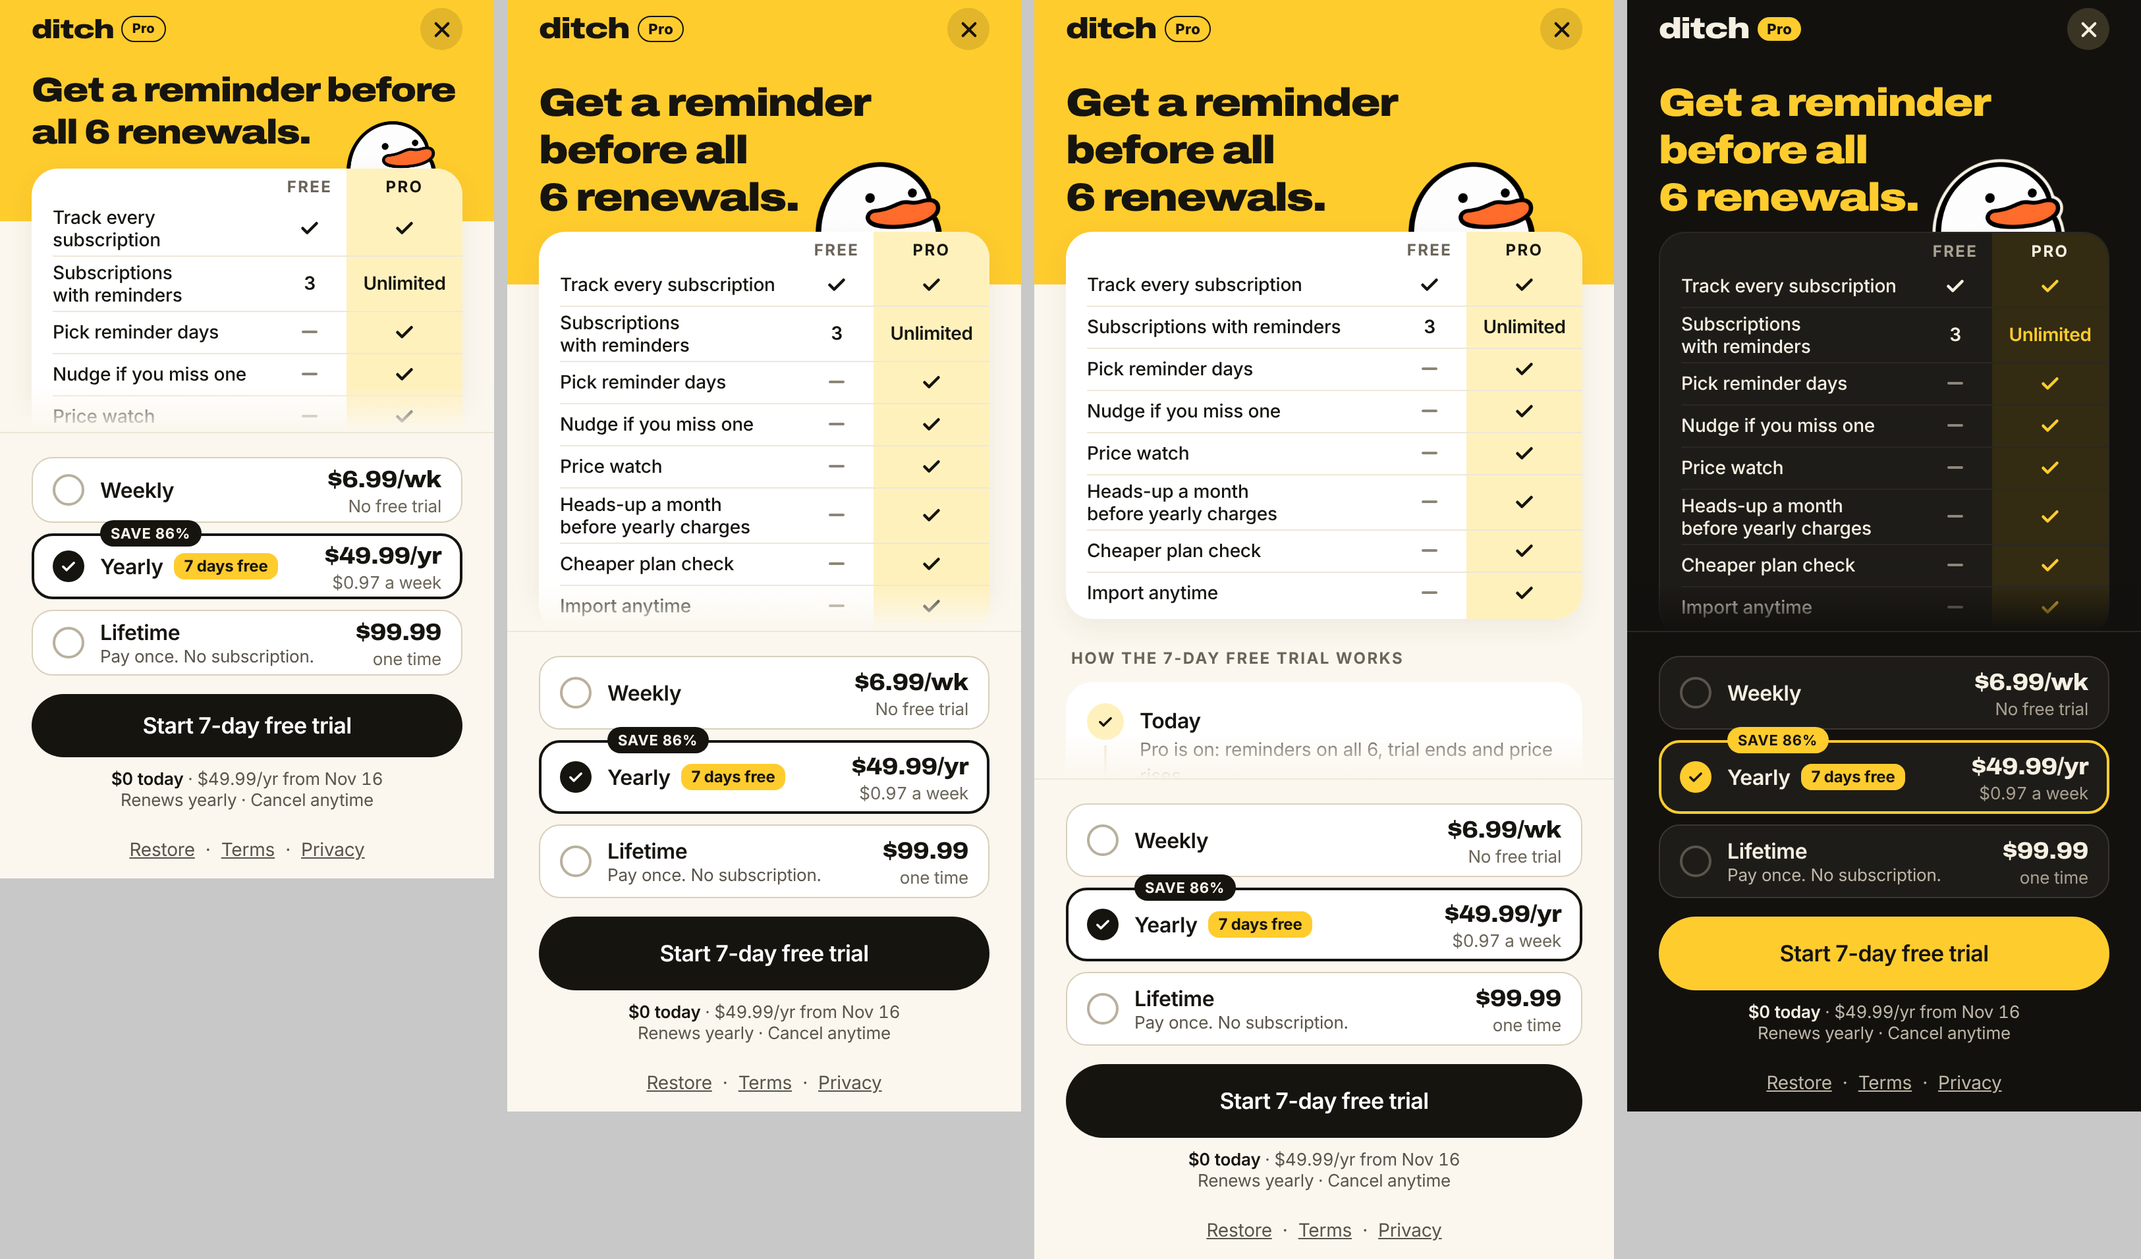
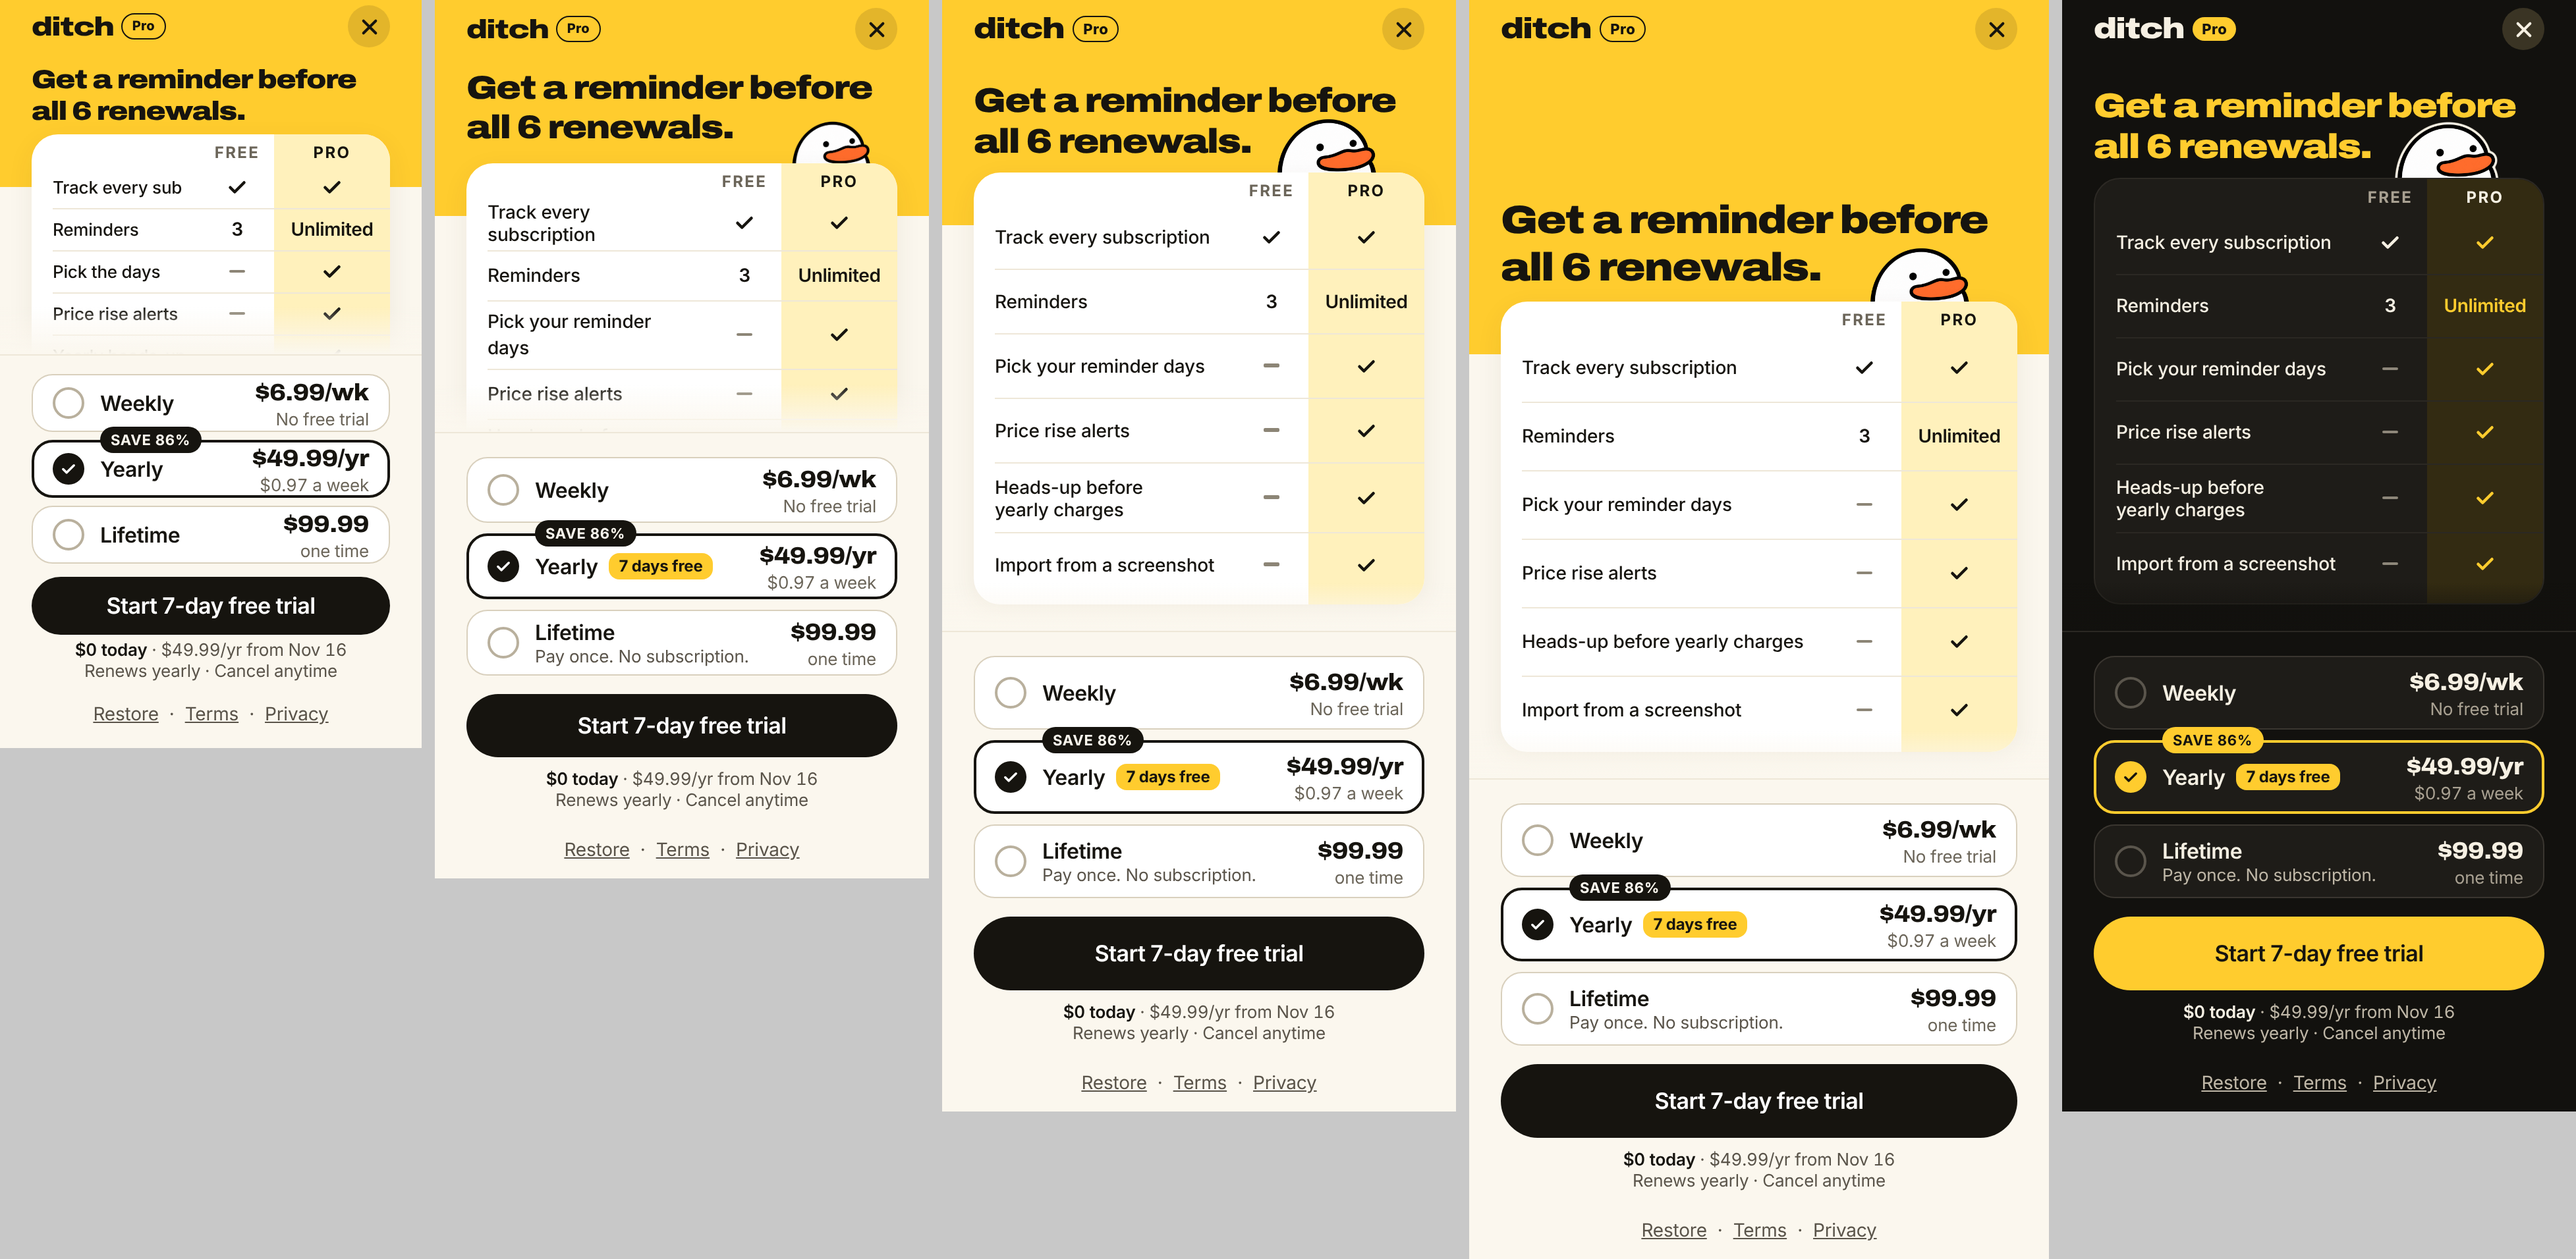
Paywall polish: 6 short table rows, 2-line title sized to the width, no trial timeline; rows open up on tall phones instead of a gap; smaller duck. Onboarding motion: welcome timing + checklist
Claude-Session: https://claude.ai/code/session_01Q8GFjWCZXwnj2nAcxjTkxh

diff --git a/src/app/paywall.tsx b/src/app/paywall.tsx
@@ -29,7 +29,7 @@ import { OnbRoot } from '@/onboarding/Parts';
 import { PURCHASES_LIVE, billedLabel, planById, purchase, restorePurchases, type PlanId } from '@/services/purchases';
 import { onboardingToday, useOnboarding, usePickedList } from '@/state/onboarding';
 import { useApp } from '@/state/app';
-import { Bell, BottomFade, Button, Card, CardIcon, Check, Close, Duck, F, IconButton, PlanCard, ProLockup, Txt, brand, haptic, useFrame, useIsDark, usePalette } from '@/ui/sunflower';
+import { BottomFade, Button, Card, Check, Close, Duck, F, IconButton, PlanCard, ProLockup, Txt, brand, haptic, useFrame, useIsDark, usePalette } from '@/ui/sunflower';
 
 const NB = ' ';
 
@@ -53,31 +53,36 @@ type Row = { label: string; free: Cell; pro: Cell };
 
 // DECISIONS #26, #27, #30. Only Pro features that work in this build (App Review 2.1, 3.1.2):
 // a row appears when its feature does. The Lock Screen widget is v1.1 (#27).
+// Owner, Nov 18 ("polish it, less cluttered"): the 6 strongest rows, each short enough for one line.
+// Only features that work in this build (App Review 2.1, 3.1.2).
 const ROWS: Row[] = [
   // From the approved deck (#26): says up front that tracking is free and unlimited.
   { label: 'Track every subscription', free: 'yes', pro: 'yes' },
-  { label: 'Subscriptions with reminders', free: '3', pro: 'Unlimited' },
+  { label: 'Reminders', free: '3', pro: 'Unlimited' },
   // Free can change the time of day; Pro picks the days before (and up to 3 of them).
-  { label: 'Pick reminder days', free: 'no', pro: 'yes' },
-  { label: 'Nudge if you miss one', free: 'no', pro: 'yes' },
-  // Owner, Nov 16: price watch works in this build (DECISIONS #60), so it gets a row.
-  { label: 'Price watch', free: 'no', pro: 'yes' },
-  // Built Nov 16 (DECISIONS #60): Pro only.
-  { label: 'Heads-up a month before yearly charges', free: 'no', pro: 'yes' },
-  { label: 'Cheaper plan check', free: 'no', pro: 'yes' },
+  { label: 'Pick your reminder days', free: 'no', pro: 'yes' },
+  // Price watch (DECISIONS #60).
+  { label: 'Price rise alerts', free: 'no', pro: 'yes' },
+  // The 30-day warning before yearly charges (DECISIONS #60).
+  { label: 'Heads-up before yearly charges', free: 'no', pro: 'yes' },
   ...(WIDGET_READY ? [{ label: `Lock${NB}Screen widget`, free: 'no', pro: 'yes' }] : []),
   // The first import (onboarding) is free, so "anytime" keeps this row true (DECISIONS #34).
-  ...(showImport() ? [{ label: 'Import anytime', free: 'no', pro: 'yes' }] : []),
+  ...(showImport() ? [{ label: 'Import from a screenshot', free: 'no', pro: 'yes' }] : []),
 ];
 
 /** 320pt wide: the same rows in fewer words, so each stays on one line. */
-const SHORT: Record<string, string> = { 'Track every subscription': 'Track every sub', 'Subscriptions with reminders': 'Reminders on', 'Pick reminder days': 'Pick the days' };
+const SHORT: Record<string, string> = {
+  'Track every subscription': 'Track every sub',
+  'Pick your reminder days': 'Pick the days',
+  'Heads-up before yearly charges': 'Yearly heads-up',
+  'Import from a screenshot': 'Screenshot import',
+};
 
 const CELL_TEXT = { fontFamily: F.semi, fontSize: 14, lineHeight: 20 } as const;
 const LABEL_TEXT = { fontFamily: F.medium, fontSize: 14, letterSpacing: -0.1 } as const;
 
 /** Free vs Pro. Fixed columns: Free 56pt; Pro fits "Unlimited" with 12pt either side. */
-function Compare({ rows, width, overlap, tiny }: { rows: Row[]; width: number; overlap: number; tiny?: boolean }) {
+function Compare({ rows, width, overlap, tiny, grow = 0 }: { rows: Row[]; width: number; overlap: number; tiny?: boolean; grow?: number }) {
   const p = usePalette();
   const dark = p.dark;
   const ink = dark ? '#F6F0E3' : brand.ink;
@@ -139,7 +144,7 @@ function Compare({ rows, width, overlap, tiny }: { rows: Row[]; width: number; o
             key={r.label}
             accessible
             accessibilityLabel={`${r.label}: Free, ${spoken(r.free)}. Pro, ${spoken(r.pro)}.`}
-            style={{ flexDirection: 'row', alignItems: 'center', minHeight: two ? 42 : tiny ? 28 : 32 }}
+            style={{ flexDirection: 'row', alignItems: 'center', minHeight: (two ? 42 : tiny ? 30 : 38) + grow }}
           >
             {i ? <View style={{ position: 'absolute', top: 0, left: 16, right: 0, height: 1, backgroundColor: p.hair }} /> : null}
             <Txt
@@ -155,48 +160,8 @@ function Compare({ rows, width, overlap, tiny }: { rows: Row[]; width: number; o
           </View>
         );
       })}
-      <View style={{ height: 4 }} />
+      <View style={{ height: 6 }} />
     </Card>
-  );
-}
-
-/** "How the free week works": the real dates, like Quizlet, Mobills and Smart Receipts. */
-function TrialSteps({ n, charge, price, days }: { n: number; charge: string; price: string; days: number }) {
-  const p = usePalette();
-  const ink = p.dark ? brand.sunflower : brand.ink;
-  const steps = [
-    {
-      icon: <Check color={ink} size={14} />,
-      title: 'Today',
-      line: n >= 2 ? `Pro is on: reminders on all ${n}, trial ends and price rises.` : 'Pro is on: reminders on everything, trial ends and price rises.',
-    },
-    { icon: <Bell color={ink} size={14} />, title: shortDate(addDays(charge, -3)), line: 'We remind you your trial is ending.' },
-    { icon: <CardIcon color={ink} size={14} />, title: shortDate(charge), line: `${price} for the year. Cancel before and pay${NB}nothing.` },
-  ];
-  return (
-    <View style={{ marginTop: 22 }}>
-      <Txt v="eyebrow" tone="mute" style={{ marginLeft: 4, marginBottom: 10 }}>
-        {`How the ${days}-day free trial works`}
-      </Txt>
-      <View style={{ backgroundColor: p.card, borderRadius: 20, paddingHorizontal: 16, paddingVertical: 6, borderWidth: p.dark ? 1 : 0, borderColor: p.cardBorder }}>
-        {steps.map((x, i) => (
-          <View key={x.title} accessible accessibilityLabel={`${x.title}: ${x.line}`} style={{ flexDirection: 'row', gap: 12, paddingVertical: 10 }}>
-            <View style={{ alignItems: 'center' }}>
-              <View style={{ width: 28, height: 28, borderRadius: 14, backgroundColor: p.dark ? '#332B12' : '#FFF1BC', alignItems: 'center', justifyContent: 'center' }}>{x.icon}</View>
-              {i < steps.length - 1 ? <View style={{ width: 2, flex: 1, minHeight: 10, marginTop: 4, marginBottom: -14, backgroundColor: p.hair }} /> : null}
-            </View>
-            <View style={{ flex: 1, paddingTop: 3 }}>
-              <Txt v="bodyStrong" color={p.cardFg}>
-                {x.title}
-              </Txt>
-              <Txt v="sub" tone="fg2" style={{ marginTop: 2 }}>
-                {x.line}
-              </Txt>
-            </View>
-          </View>
-        ))}
-      </View>
-    </View>
   );
 }
 
@@ -276,24 +241,41 @@ export default function Paywall() {
 
   // Phones: forced breaks so the last line is short and the duck sits beside it (v10). iPad wraps by itself.
   const what = many ? `all ${n}${NB}renewals.` : `every${NB}renewal.`;
-  const head = f.tiny
-    ? `Get a reminder before ${what}`
-    : f.tablet
-      ? `Get a reminder before ${what}`
-      : f.small
-        ? `Get a reminder before\n${what}`
-        : many
-          ? `Get a reminder\nbefore all\n${n}${NB}renewals.`
-          : `Get a reminder\nbefore every\nrenewal.`;
+  // Two lines on every phone, so the table and plans get the room. iPad wraps by itself.
+  const head = f.tablet || f.tiny ? `Get a reminder before ${what}` : `Get a reminder before\n${what}`;
+  // Sized so "Get a reminder before" stays on one line: 30pt at 392pt wide (Pro Max), smaller on narrower phones.
+  const headSize = f.tablet ? 30 : Math.min(30, Math.floor((30 * f.content) / 392));
   const spokenHead = `Get a reminder before ${many ? `all ${n} renewals` : 'every renewal'}.`;
   const rows = ROWS;
+  // Taller phones: the table rows open up a little (up to 10pt each) instead of leaving a gap. Measured
+  // from the scroll area vs its natural content; starts again when the window changes, so it never flickers.
+  const sizeKey = `${f.width}x${f.height}x${f.fontScale}`;
+  // `natural` is the content's height with no extra space added, so the result never feeds back on itself.
+  const [fit, setFit] = useState({ key: sizeKey, view: 0, natural: 0 });
+  const cur = fit.key === sizeKey ? fit : { key: sizeKey, view: 0, natural: 0 };
+  const leftover = cur.view && cur.natural ? Math.max(0, cur.view - cur.natural) : 0;
+  const grow = Math.min(14, Math.floor(leftover / rows.length));
+  const lift = Math.min(160, leftover - grow * rows.length);
+  // Functional updates: the two measurements can land in the same frame, so neither may overwrite the other.
+  const base = (prev: typeof fit) => (prev.key === sizeKey ? prev : { key: sizeKey, view: 0, natural: 0 });
+  const onView = (view: number) => setFit((prev) => (base(prev).view === view ? prev : { ...base(prev), view }));
+  const onContent = (h: number) => {
+    const natural = Math.round(h - grow * rows.length - lift);
+    setFit((prev) => (Math.abs(base(prev).natural - natural) <= 1 ? prev : { ...base(prev), natural }));
+  };
   const overlap = f.tablet ? 48 : 40;
-  const duckW = f.small ? 68 : f.tablet ? 104 : 96;
+  const duckW = f.small ? 60 : f.tablet ? 96 : 76;
   const ink = dark ? '#F6F0E3' : brand.ink;
   return (
     <OnbRoot surface="cream">
       <View style={{ flex: 1 }}>
-        <ScrollView style={{ flex: 1 }} contentContainerStyle={{ paddingHorizontal: f.edge, paddingBottom: 28 }} showsVerticalScrollIndicator={false}>
+        <ScrollView
+          style={{ flex: 1 }}
+          contentContainerStyle={{ paddingHorizontal: f.edge, paddingBottom: 20 }}
+          showsVerticalScrollIndicator={false}
+          onLayout={(e) => onView(e.nativeEvent.layout.height)}
+          onContentSizeChange={(_, h) => onContent(h)}
+        >
           <View
             style={{
               marginHorizontal: -f.edge,
@@ -309,14 +291,15 @@ export default function Paywall() {
                 <Close color={ink} />
               </IconButton>
             </View>
-            <View style={{ height: f.small ? 8 : 16 }} />
+            {/* What's left after the rows open up sits here, above the headline (never a gap under the table). */}
+            <View style={{ height: (f.small ? 8 : 16) + lift }} />
             {/* Dark mode: night like the other yellow screens (Almost set, Ditched), with a sunflower headline. */}
             <Txt
               v="title"
               color={dark ? brand.sunflower : ink}
               accessibilityRole="header"
               accessibilityLabel={spokenHead}
-              style={f.tiny ? { fontSize: 22, lineHeight: 27, letterSpacing: -0.6 } : f.small ? { fontSize: 26, lineHeight: 32, letterSpacing: -0.8 } : null}
+              style={{ fontSize: headSize, lineHeight: Math.round(headSize * 1.2), letterSpacing: -headSize / 30 }}
             >
               {head}
             </Txt>
@@ -326,12 +309,7 @@ export default function Paywall() {
             {f.tiny ? null : <Duck width={duckW} right={f.edge + (f.small ? 20 : f.tablet ? 48 : 36)} bottom={overlap - 4} />}
           </View>
 
-          <Compare rows={rows} width={f.content} overlap={overlap} tiny={f.tiny} />
-
-          <TrialSteps n={n} charge={charge} price={yearly.priceString} days={yearly.trialDays} />
-          <Txt v="sub" tone="fg2" center style={{ marginTop: 18 }}>
-            {`Your list stays on your phone. Cancel anytime in iPhone${NB}Settings.`}
-          </Txt>
+          <Compare rows={rows} width={f.content} overlap={overlap} tiny={f.tiny} grow={grow} />
         </ScrollView>
         <BottomFade height={36} />
       </View>

diff --git a/src/app/onboarding/index.tsx b/src/app/onboarding/index.tsx
@@ -27,8 +27,8 @@ const STICKERS = [
 ] as const;
 
 // The entrance (motion.tsx `stage`), in ms after the screen is up. All of it lands by ~900 ms:
-// headline lines 0/70/140 · stickers 200 + 70 each · reminder 380 · duck 520 · button 620.
-const T = { line: 70, sticker: 200, stickerGap: 70, note: 380, duck: 520, button: 620 } as const;
+// headline lines 0/70/140 · stickers 200 + 70 each · reminder 380 · duck 480 · button 620.
+const T = { line: 70, sticker: 200, stickerGap: 70, note: 380, duck: 480, button: 620 } as const;
 
 /**
  * One sticker: pops in (fade, and grows from 70% with `settle`, no overshoot),
@@ -129,7 +129,8 @@ export default function Welcome() {
   const [art, setArt] = useState({ w: 0, h: 0 });
   const head = { fontSize: fs, lineHeight: Math.round((fs * 64) / 70 / 4) * 4, letterSpacing: -0.04 * fs };
   // The entrance starts once the screen is up (at once with Reduce Motion: everything shown at rest).
-  const arrived = useScreenArrived();
+  // It's the first screen, often with no push before it, so it waits at most 300 ms for one.
+  const arrived = useScreenArrived(300);
 
   return (
     <OnbRoot surface="sun">

diff --git a/docs/MANUAL-TESTS.md b/docs/MANUAL-TESTS.md
@@ -95,7 +95,19 @@ Reset first: Settings → Your data → Delete all my data → Delete.
 - [ ] **A bank statement:** pick a PDF or CSV from Files. Same check list, then your total.
 - [ ] **Pick them myself:** the usual list → your total.
 - [ ] The total screen no longer shows the "2.5×, one study" line.
-- [ ] **Paywall:** no logos at the top. Title and duck, then the Free vs Pro table and "How the 7-day free trial works", which scroll. Weekly / Yearly / Lifetime, the button, the price line and Restore/Terms/Privacy stay pinned at the bottom on every phone.
+- [ ] **Paywall:** no logos at the top. A 2-line title and the duck, then a 6-row Free vs Pro table (no trial timeline). On bigger phones the rows open up a little; on the SE the table scrolls. Weekly / Yearly / Lifetime, the button, the price line and Restore/Terms/Privacy stay pinned at the bottom on every phone.
+
+## 1n. Onboarding motion (Nov 18, docs/research/motion-flow-2026-11-18.md)
+Reset first: Settings → Your data → Delete all my data → Delete. Do it once with Reduce Motion off, then once with it on (Settings → Accessibility → Motion → Reduce Motion).
+- [ ] **First screen:** the headline comes in one line at a time, the logos pop in one by one, the Netflix reminder slides up a little and stops, the duck rises behind it, the button fades in last. All done in under a second.
+- [ ] Wait 10 seconds: the logos drift a few points up and down, slowly, each on its own beat. The reminder (with the price) never moves once it has landed.
+- [ ] Tap the button the instant the screen opens: nothing happens until it's visible.
+- [ ] **Slides:** slide 1's statement marks the 4 subscriptions one after another. Swipe: you feel a light tick as the next slide takes over, the words cross-fade and the long dot slides across with your finger. Slide 2: the three reminders drop in one by one. Slide 3: Planet Fitness greys out, DITCHED lands with a firm buzz, then "$299.88 a year you won't pay" fades in. Swipe back: they stay finished (each plays once).
+- [ ] **Where should we look?:** the cards come in one after another. Drawn icons (bank, phone with a list, page with lines, checklist), no emoji. Same icons on Home → Find your subscriptions.
+- [ ] **Buttons and cards:** press and hold any big button or route card: it shrinks slightly and springs back when you let go.
+- [ ] **Step bar:** on each step (pick, total, dates, reminders) the new segment fills from the left just after the screen arrives.
+- [ ] **Your total:** the number starts rolling only once the screen has stopped sliding, and you feel a success buzz the moment the last digit lands.
+- [ ] **Reduce Motion on:** every screen appears finished: no rising, no popping, no floating, no rolling. The buttons work right away. DITCHED still shows on slide 3 (no buzz).
 
 ## 1k. Paywall plans: Yearly, Lifetime, Weekly (Nov 18, DECISIONS #66)
 Open the paywall (finish onboarding, or Settings → Ditch Pro → Try Pro free).
